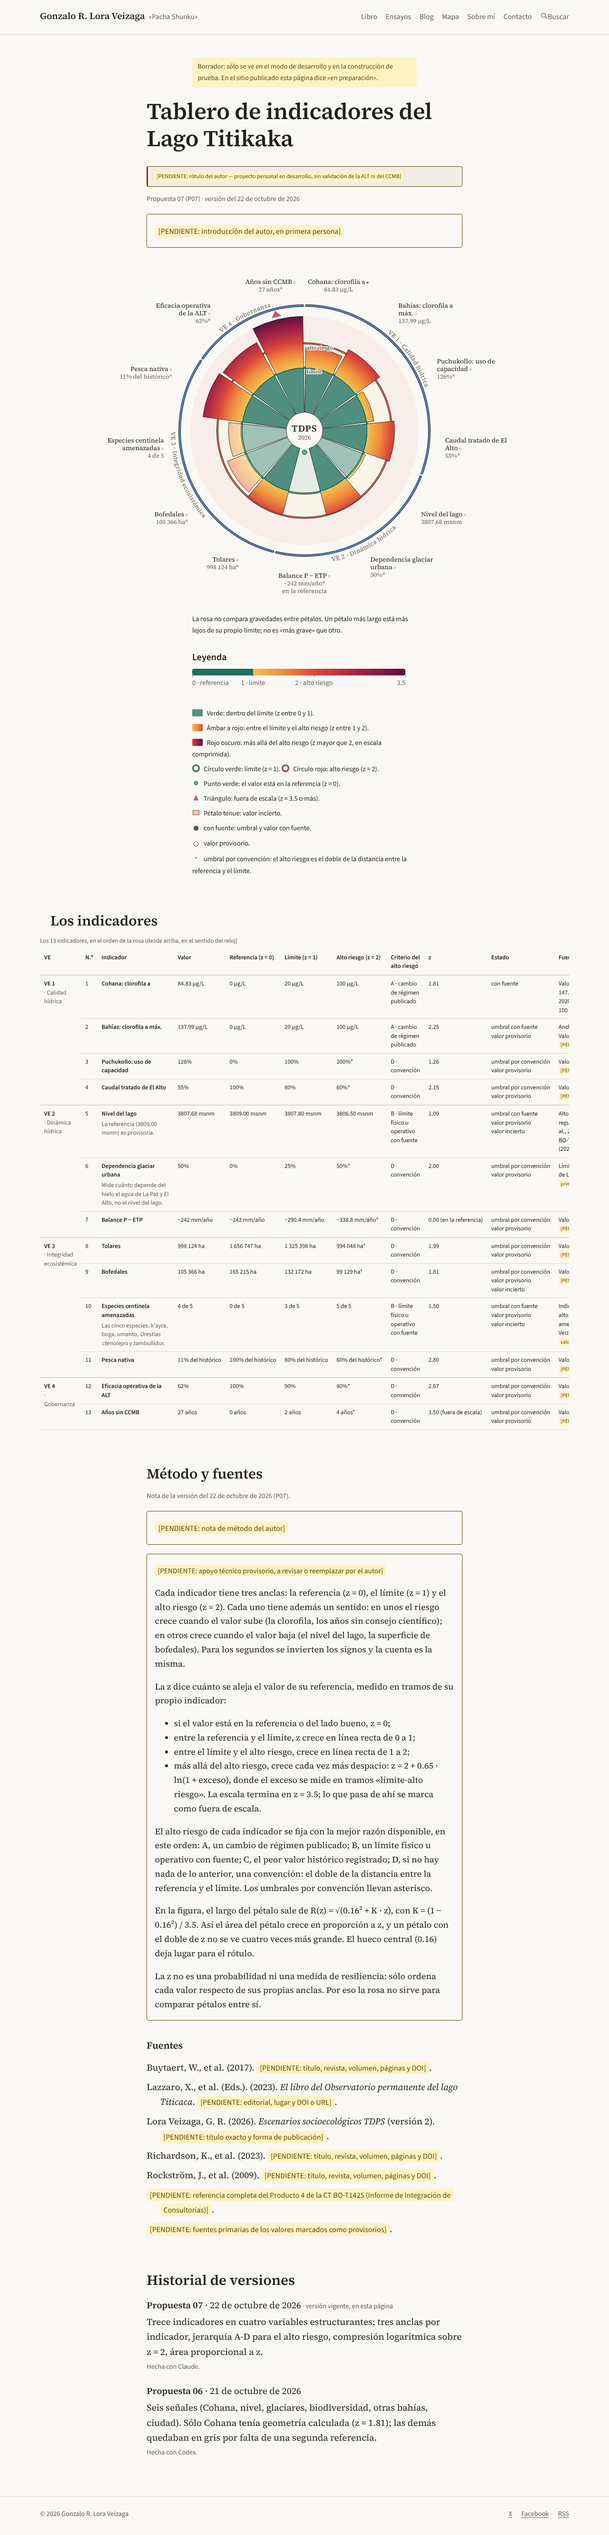
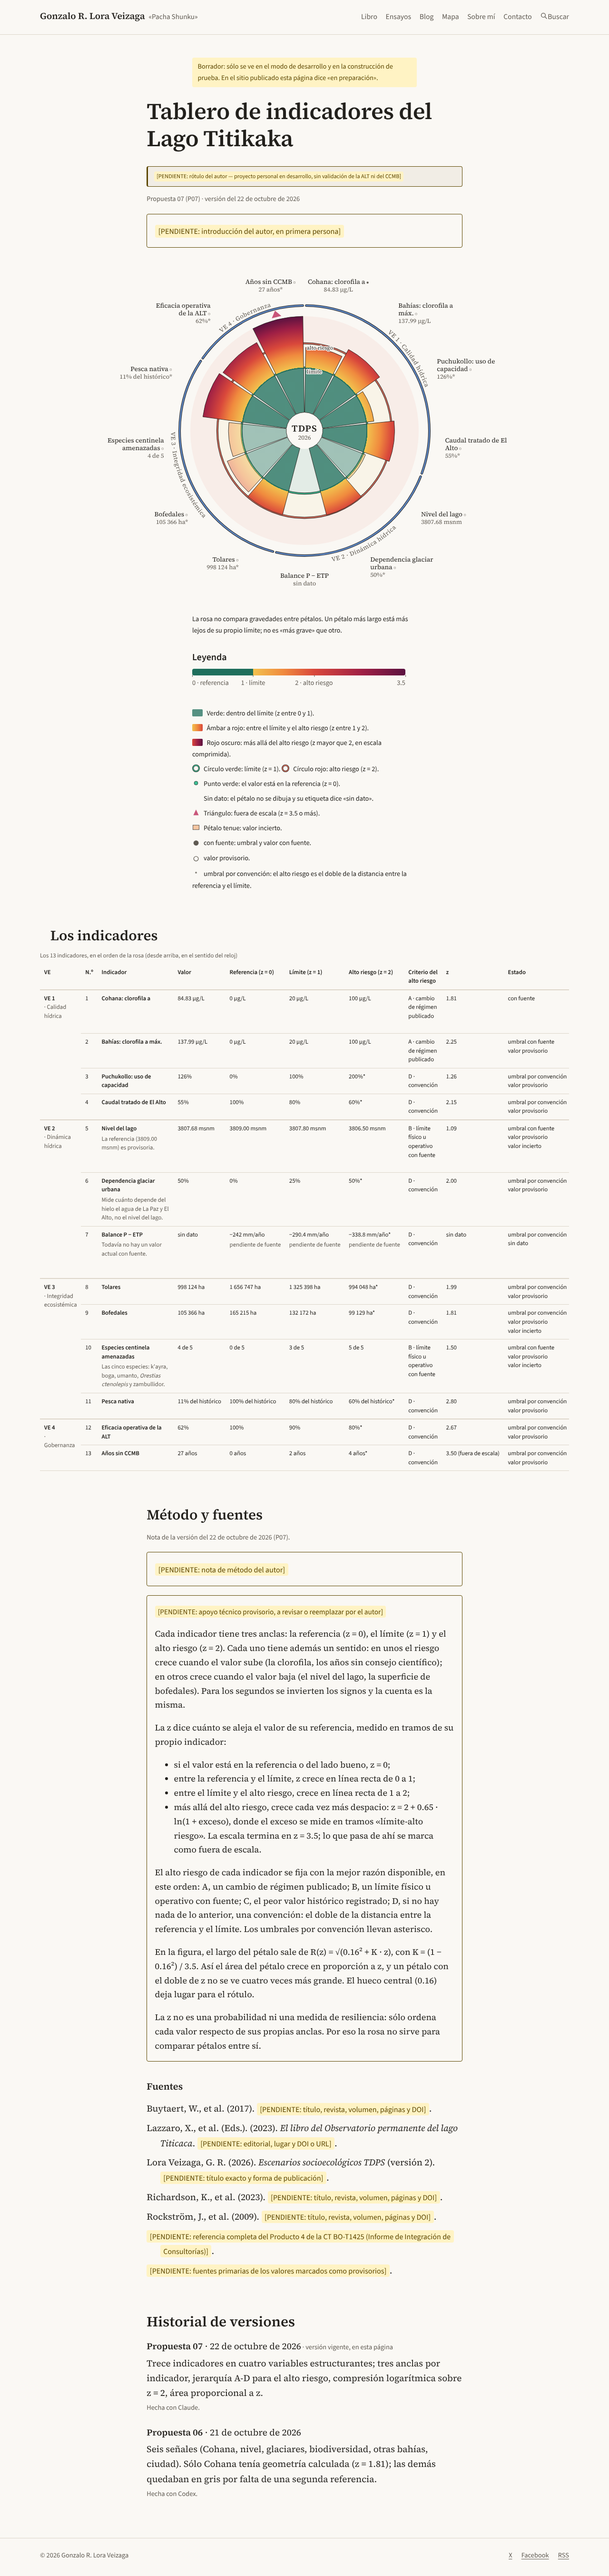
Tablero: Balance P − ETP pasa a «sin dato»
Decisión del autor (24-10-2026): el −242 mm/año del valor era la referencia copiada; no hay
valor actual con fuente.
- estado_valor admite «sin_dato»: el pétalo no lleva valor ni z_referencia, se dibuja sin
  largo, con la etiqueta «sin dato» en la figura y en la tabla, y no cuenta como «en la
  referencia». El esquema avisa si valor y sin_dato no concuerdan.
- anclas_pendientes: referencia, límite y alto riesgo rotulados «pendiente de fuente» en la
  tabla; con draft: false la construcción no lo admite.
- PENDIENTES.md: falta el valor actual y la fuente de la referencia (Cuadro 2 de los
  escenarios v2). COMO-ACTUALIZAR.md al día. Prueba nueva en pruebas/tablero.spec.ts.
- Merge de main (#14). Capturas e imagen de muestra regeneradas.

Claude-Session: https://claude.ai/code/session_01LWoJiaGhtJnVEGq83pFwgw

diff --git a/src/lib/tablero.ts b/src/lib/tablero.ts
@@ -37,19 +37,19 @@ export function radio(z: number): number {
 }
 
 // Anclas en orden según la polaridad: referencia < límite < alto riesgo (multiplicados por d).
-export function anclasOrdenadas({ polaridad: d, referencia, limite, alto_riesgo }: Anclas): boolean {
+export function anclasOrdenadas({ polaridad: d, referencia, limite, alto_riesgo }: Omit<Anclas, 'valor'>): boolean {
   return d * referencia < d * limite && d * limite < d * alto_riesgo;
 }
 
 // ——— Estado para el lector ———
 
 export type Umbral = 'fuente' | 'convencion';
-export type Valor = 'fuente' | 'provisorio';
+export type Valor = 'fuente' | 'provisorio' | 'sin_dato';
 
 export const ETIQUETAS_ESTADO = {
   conFuente: 'con fuente',
   umbral: { fuente: 'umbral con fuente', convencion: 'umbral por convención' },
-  valor: { fuente: 'valor con fuente', provisorio: 'valor provisorio' },
+  valor: { fuente: 'valor con fuente', provisorio: 'valor provisorio', sin_dato: 'sin dato' },
 } as const;
 
 export function etiquetasEstado(umbral: Umbral, valor: Valor): string[] {
@@ -62,7 +62,7 @@ export function etiquetasEstado(umbral: Umbral, valor: Valor): string[] {
 export const MARCA = { conFuente: '●', provisorio: '○' } as const;
 export function marcaEstado(umbral: Umbral, valor: Valor): string {
   if (umbral === 'fuente' && valor === 'fuente') return MARCA.conFuente;
-  return valor === 'provisorio' ? MARCA.provisorio : '';
+  return valor === 'provisorio' ? MARCA.provisorio : ''; // sin dato: la etiqueta ya lo dice
 }
 
 // ——— Formato de números (regla del sitio) ———
@@ -139,12 +139,12 @@ export interface PetaloRosa {
   indicador: string;
   ve: string;
   unidad: string;
-  valor: number;
+  valor?: number;                       // sin valor: «sin dato»
   decimales?: number;
   umbral: Umbral;
   estado_valor: Valor;
   incierto: boolean;
-  z: number;
+  z: number | null;                     // null: sin dato
 }
 
 export interface OpcionesRosa {
@@ -226,8 +226,10 @@ function lineas(texto: string, ancho = 20): string[] {
   return salida;
 }
 
+export const SIN_DATO = 'sin dato';
+
 export const valorEtiqueta = (p: Pick<PetaloRosa, 'valor' | 'unidad' | 'decimales' | 'umbral'>) =>
-  `${conUnidad(p.valor, p.unidad, p.decimales)}${p.umbral === 'convencion' ? '*' : ''}`;
+  p.valor === undefined ? SIN_DATO : `${conUnidad(p.valor, p.unidad, p.decimales)}${p.umbral === 'convencion' ? '*' : ''}`;
 
 export function svgRosa(petalos: PetaloRosa[], o: OpcionesRosa): string {
   const conTextos = o.textos !== false;
@@ -276,15 +278,17 @@ export function svgRosa(petalos: PetaloRosa[], o: OpcionesRosa): string {
     const desde = i * paso + HUECO_GRADOS / 2;
     const hasta = (i + 1) * paso - HUECO_GRADOS / 2;
     const medio = (i + 0.5) * paso;
-    let g = `<g data-petalo="${i + 1}">`;
-    if (p.z > 0) {
+    let g = `<g data-petalo="${i + 1}"${p.z === null ? ' data-sin-dato=""' : ''}>`;
+    if (p.z === null) {
+      // Sin dato: sin largo, ni punto ni triángulo; sólo la etiqueta.
+    } else if (p.z > 0) {
       // Todos los pétalos llevan contorno del color del texto; el incierto es además tenue.
       g += `<path d="${sector(desde, hasta, rIn, Math.max(rz(p.z), rIn + 1))}" fill="url(#rosa-degrade)"${p.incierto ? ' fill-opacity="0.45"' : ''} ${trazo}/>`;
     } else {
       const [x, y] = punto(medio, rIn + 9);
       g += `<circle cx="${x}" cy="${y}" r="6" fill="${c.enReferencia}" ${trazo}/>`;
     }
-    if (p.z >= Z_MAX) {
+    if (p.z !== null && p.z >= Z_MAX) {
       const [ax, ay] = punto(medio, ESCALA + 24);
       const [bx, by] = punto(medio - 2.4, ESCALA + 7);
       const [cx, cy] = punto(medio + 2.4, ESCALA + 7);
@@ -346,7 +350,7 @@ export function svgRosa(petalos: PetaloRosa[], o: OpcionesRosa): string {
       const filas = [
         ...nombre.map((t, j) => ({ t, clase: 'rosa-nombre', marca: j === nombre.length - 1 ? marca : '' })),
         { t: valorEtiqueta(p), clase: 'rosa-valor', marca: '' },
-        ...(p.z === 0 ? [{ t: 'en la referencia', clase: 'rosa-valor', marca: '' }] : []),
+        ...(p.z === 0 ? [{ t: 'en la referencia', clase: 'rosa-valor', marca: '' }] : []), // nunca con «sin dato» (z null)
       ];
       const alto = 20;
       const primera = seno > 0.3 ? y - (filas.length - 1) * alto - 4 : seno < -0.3 ? y + 14 : y - ((filas.length - 1) * alto) / 2 + 6;
@@ -382,6 +386,7 @@ export async function tablero() {
   // La vigente es la más reciente que tiene pétalos; las demás son historial.
   const vigente = versiones.find((v) => v.data.petalos.length > 0);
   if (!vigente) throw new Error('[tablero] Ninguna versión de src/content/tablero/ tiene pétalos.');
-  const petalos = vigente.data.petalos.map((p) => ({ ...p, z: calcularZ(p) }));
+  // Sin dato: z null; el pétalo no se dibuja y no cuenta como «en la referencia».
+  const petalos = vigente.data.petalos.map((p) => ({ ...p, z: p.valor === undefined ? null : calcularZ({ ...p, valor: p.valor }) }));
   return { versiones, vigente, petalos };
 }

diff --git a/src/content.config.ts b/src/content.config.ts
@@ -229,7 +229,8 @@ const petalo = z.object({
   ve: z.string().trim().min(1),
   indicador: z.string().trim().min(1),
   unidad: z.string().trim().min(1),
-  valor: z.number({ error: '«valor» tiene que ser un número (con punto decimal, sin espacios).' }),
+  // Sin valor actual con fuente: se omite «valor» y se pone «estado_valor: sin_dato».
+  valor: z.preprocess(vacio, z.number({ error: '«valor» tiene que ser un número (con punto decimal, sin espacios).' }).optional()),
   decimales: z.number().int().min(0).max(4).optional(),  // para mostrar «3807.80» en vez de «3807.8»
   polaridad: z.union([z.literal(1), z.literal(-1)], { error: '«polaridad» es 1 (el riesgo crece si el valor sube) o -1 (si baja).' }),
   referencia: z.number(),
@@ -237,9 +238,10 @@ const petalo = z.object({
   alto_riesgo: z.number(),
   criterio: z.enum(['A', 'B', 'C', 'D'], { error: '«criterio» es A, B, C o D.' }),
   umbral: z.enum(['fuente', 'convencion'], { error: '«umbral» es «fuente» o «convencion».' }),
-  estado_valor: z.enum(['fuente', 'provisorio'], { error: '«estado_valor» es «fuente» o «provisorio».' }),
+  estado_valor: z.enum(['fuente', 'provisorio', 'sin_dato'], { error: '«estado_valor» es «fuente», «provisorio» o «sin_dato».' }),
   incierto: z.boolean().default(false),
-  z_referencia: z.number({ error: 'Falta «z_referencia» (la z de la propuesta, para comparar con el cálculo).' }),
+  z_referencia: z.number().optional(),          // la z de la propuesta; no va con «sin_dato»
+  anclas_pendientes: z.boolean().default(false), // referencia, límite y alto riesgo sin fuente todavía
   fuente: z.string().trim().min(1, 'Falta «fuente». Si no se conoce, «[PENDIENTE: fuente primaria del valor]».'),
   nota: z.string().trim().min(1).optional(),
 });
@@ -293,8 +295,26 @@ const tablero = defineCollection({
         if ((p.criterio === 'D') !== (p.umbral === 'convencion')) {
           ctx.addIssue({ code: 'custom', path: ['petalos', i, 'umbral'], message: `${nombre}: el criterio D va con «umbral: convencion»; A, B y C van con «umbral: fuente».` });
         }
+        if (p.anclas_pendientes && !d.draft) {
+          ctx.addIssue({ code: 'custom', path: ['petalos', i, 'anclas_pendientes'], message: `${nombre}: con «draft: false» las anclas no pueden quedar pendientes de fuente. Cargá la fuente y quitá «anclas_pendientes».` });
+        }
+        // Sin dato: no hay valor ni z que comparar.
+        if (p.estado_valor === 'sin_dato') {
+          if (p.valor !== undefined || p.z_referencia !== undefined) {
+            ctx.addIssue({ code: 'custom', path: ['petalos', i, 'valor'], message: `${nombre}: con «estado_valor: sin_dato» el pétalo no lleva «valor» ni «z_referencia».` });
+          }
+          return;
+        }
+        if (p.valor === undefined) {
+          ctx.addIssue({ code: 'custom', path: ['petalos', i, 'valor'], message: `${nombre}: falta «valor». Si no hay valor actual con fuente, poné «estado_valor: sin_dato».` });
+          return;
+        }
+        if (p.z_referencia === undefined) {
+          ctx.addIssue({ code: 'custom', path: ['petalos', i, 'z_referencia'], message: `${nombre}: falta «z_referencia» (la z de la propuesta, para comparar con el cálculo).` });
+          return;
+        }
         // El YAML y el cálculo no se separan sin que nadie lo vea.
-        const z = calcularZ(p);
+        const z = calcularZ({ ...p, valor: p.valor });
         if (Math.abs(z - p.z_referencia) > TOLERANCIA_Z) {
           ctx.addIssue({ code: 'custom', path: ['petalos', i, 'z_referencia'], message: `${nombre}: la z calculada es ${z.toFixed(2)} y «z_referencia» dice ${p.z_referencia}. Revisá el valor y las anclas, o actualizá «z_referencia».` });
         }

diff --git a/pruebas/tablero.spec.ts b/pruebas/tablero.spec.ts
@@ -56,6 +56,19 @@ test('estado de cada pétalo para el lector', async ({ page }) => {
   await expect(page.locator('tr[data-petalo="3"] .tablero-estado')).toContainText('valor provisorio');
 });
 
+test('pétalo sin dato: sin largo, «sin dato» en figura y tabla, no cuenta como en la referencia', async ({ page }) => {
+  await abrir(page, RUTA);
+  const petalo = page.locator('svg.rosa [data-petalo][data-sin-dato]');
+  await expect(petalo).toHaveCount(1);
+  await expect(petalo.locator('path, circle')).toHaveCount(0);
+  const n = await petalo.getAttribute('data-petalo');
+  const fila = page.locator(`tr[data-petalo="${n}"]`);
+  await expect(fila.locator('td').nth(1)).toHaveText('sin dato');   // valor
+  await expect(fila.locator('.tablero-estado')).toContainText('sin dato');
+  await expect(fila).not.toContainText('en la referencia');
+  await expect(page.locator('svg.rosa .rosa-etiquetas')).toContainText('sin dato');
+});
+
 test('a 360 px: sin desborde y con números en lugar de etiquetas largas', async ({ page }) => {
   await page.setViewportSize({ width: 360, height: 800 });
   await abrir(page, RUTA);

diff --git a/PENDIENTES.md b/PENDIENTES.md
@@ -63,8 +63,8 @@ La página `/tablero/` está unida a `main` en borrador (`draft: true`): el siti
   - [PENDIENTE: nota de método del autor] (`metodo`);
   - el apoyo técnico de la nota de método (`metodo_apoyo`) es relleno redactado en la sesión: usarlo, reescribirlo o borrarlo.
 - [ ] **Campo `herramienta` del historial.** Hoy la página dice «Hecha con Claude» (P07) y «Hecha con Codex» (P06). Si se borra el campo de un YAML, esa línea no aparece.
-- [ ] **Balance P − ETP** (pétalo 7). La referencia (−242 mm/año) es igual al valor actual, así que el pétalo queda en z = 0 por construcción. Definir la referencia.
-- [ ] **Fuentes primarias de los valores de 12 pétalos** (2 al 13). Sólo Cohana (pétalo 1) tiene valor con fuente; los demás llevan «Cuadro 2 de Lora Veizaga (2026). [PENDIENTE: fuente primaria del valor]» en el campo `fuente`.
+- [ ] **Balance P − ETP** (pétalo 7). Pasó a «sin dato» (decisión del autor, 24-10-2026): el −242 mm/año que figuraba como valor era la referencia copiada. Falta el valor actual con fuente y la fuente de la referencia (−242 mm/año, Cuadro 2 de los escenarios socioecológicos TDPS, versión 2). Referencia, límite y alto riesgo quedan como están, rotulados «pendiente de fuente» en la tabla (`anclas_pendientes: true`). Al cargar el valor: poner `valor`, cambiar `estado_valor` y agregar `z_referencia`; cuando las anclas tengan fuente, quitar `anclas_pendientes`.
+- [ ] **Fuentes primarias de los valores de 12 pétalos** (2 al 13). Sólo Cohana (pétalo 1) tiene valor con fuente. Once llevan «Cuadro 2 de Lora Veizaga (2026). [PENDIENTE: fuente primaria del valor]» en el campo `fuente`; el pétalo 7 no tiene valor (ver el punto anterior).
 - [ ] **Convención D.** Nueve pétalos (3, 4, 6, 7, 8, 9, 11, 12 y 13) tienen el alto riesgo por convención: el doble de la distancia entre la referencia y el límite, con asterisco. Confirmar o reemplazar por un criterio A, B o C con fuente.
 - [ ] **Referencia del nivel del lago** (pétalo 5). 3809.00 msnm es provisoria; por eso el valor va como provisorio e incierto.
 - [ ] **Referencias APA** de la lista de fuentes (`textos.fuentes`), hoy con [PENDIENTE]:

diff --git a/docs/tablero/COMO-ACTUALIZAR.md b/docs/tablero/COMO-ACTUALIZAR.md
@@ -40,6 +40,8 @@ El sitio no se construye, y el error dice qué archivo y qué campo, si:
 - `umbral: fuente` → «umbral con fuente»; `umbral: convencion` → «umbral por convención» y asterisco junto al valor.
 - `estado_valor: fuente` → «valor con fuente»; `estado_valor: provisorio` → «valor provisorio».
 - Umbral y valor con fuente se resumen como «con fuente».
+- `estado_valor: sin_dato` → el pétalo no lleva `valor` ni `z_referencia`; se dibuja sin largo, con la etiqueta «sin dato» en la figura y en la tabla, y no cuenta como «en la referencia». Si se carga un valor sin quitar `sin_dato`, o se quita `sin_dato` sin cargar valor y `z_referencia`, la construcción avisa.
+- `anclas_pendientes: true` → referencia, límite y alto riesgo se rotulan «pendiente de fuente» en la tabla. Con `draft: false` la construcción no lo admite.
 - `incierto: true` → pétalo tenue (opacidad 0.45) y «valor incierto» en la tabla. Todos los pétalos llevan un contorno fino del color del texto del tema.
 
 (El encargo llamaba `valor` al segundo campo; se llama `estado_valor` porque `valor` ya es la cifra.)
